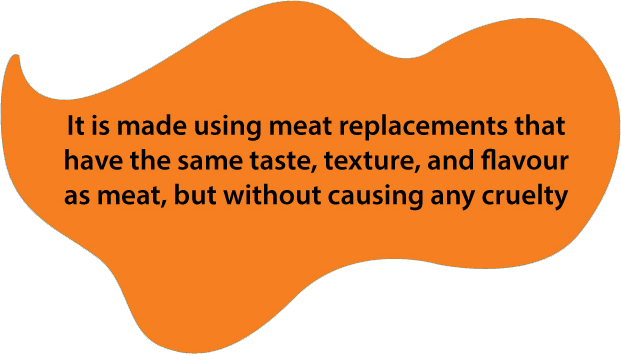
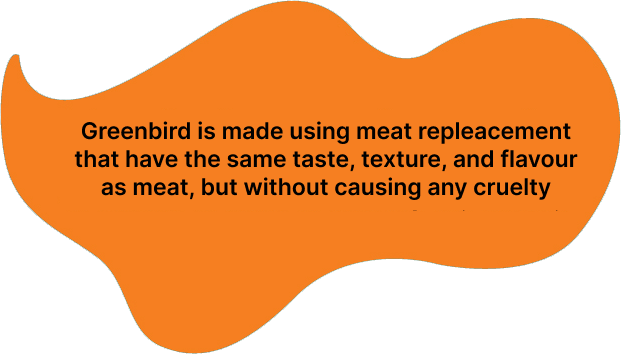
typos and question change bug fixed

Changed region(s): [[0.0918, 0.3107, 0.9485, 0.5904]]

diff --git a/src/screens/login.screen.js b/src/screens/login.screen.js
@@ -20,22 +20,11 @@ import LogoHeader from '../components/logo_header.components';
 
 const INITIAL_USER_INPUT = {
     name:"",
-    age:"",
     phone:"",
-    location:""
+    location:"",
+    email:""
 }
-const testingCreds = {
-    name:"manik",
-    age:"18-24",
-    phone:"1111111111",
-    location:"outlet location"
-}
-var age_props = [
-    {label: '18-24', value:'18-24'},
-    {label: '25-32', value: '25-32' },
-    {label:'33-45', value:'33-45'},
-    {label:'45+', value:'45-Above'}
-  ];
+
 const LoginScreen = ({navigation, route}) => {
 
     const [user,setUser] = useState(REQUEST_SUCCESS( INITIAL_USER_INPUT ));
@@ -46,6 +35,11 @@ const LoginScreen = ({navigation, route}) => {
             state.message = message;
             return {...state}
         })
+    }
+    const isMailValid = (mail) => {
+        if(!mail || mail==="") return false;
+        const validRegex = /^[a-zA-Z0-9.!#$%&'*+/=?^_`{|}~-]+@[a-zA-Z0-9-]+(?:\.[a-zA-Z0-9-]+)*$/;
+        return mail.match(validRegex);
     }
     const handleAnonymousLogin = async () => {
         if(user.status===PENDING) return;
@@ -59,16 +53,20 @@ const LoginScreen = ({navigation, route}) => {
             return
         }
         if(!user.data.location ){
-            setMessage("Please enter a valid Location")
+            setMessage("Please select a valid location")
             return
+        }
+        if(!isMailValid(user.data.email)){
+            setMessage("Please enter a valid email address")
+            return;
         }
         setMessage("");
         try{
             setUser(REQUEST_PENDING(user.data))
             await createUserDocument(user.data)
             await setFeedbackResponse(getAllResponses,user.data.phone);
-            navigation.navigate(APP_TYPE.thankYouScreen);
             setUser(REQUEST_SUCCESS(INITIAL_USER_INPUT))
+            navigation.navigate(APP_TYPE.thankYouScreen);
         }catch(e){
             if(e.code === 'auth/too-many-requests'){
                 setUser(state => REQUEST_FAILED(state.data,"Your device is blocked due to too many requests! Please try again later"))
@@ -112,7 +110,7 @@ const LoginScreen = ({navigation, route}) => {
                                             name="name"
                                             onChangeText={handleInputChange}
                                             value={user.data.name}
-                                            placeholder="Name"
+                                            placeholder="Enter Name"
                                             containerStyles={styles.input}
                                         />
                                         <C_TextInput
@@ -120,10 +118,18 @@ const LoginScreen = ({navigation, route}) => {
                                             name="phone"
                                             onChangeText={handleInputChange}
                                             value={user.data.phone}
-                                            placeholder="Mobile No."
+                                            placeholder="Enter Mobile Number"
                                             containerStyles={styles.input}
                                             type="tel"
                                             countryCode='+91'
+                                        />
+                                        <C_TextInput
+                                            label="Email Address:"
+                                            name="email"
+                                            onChangeText={handleInputChange}
+                                            value={user.data.email}
+                                            placeholder="Enter Email Address"
+                                            containerStyles={styles.input}
                                         />
                                         <DropDown
                                             label="Location:"

diff --git a/src/screens/thankyou.screen.js b/src/screens/thankyou.screen.js
@@ -23,7 +23,7 @@ const ThankyouScreen = ({navigation}) => {
     <SafeAreaView style={styles.safeAreaView}>
       <ImageBackground source={tableBg} style={styles.imagebackground}>
         <View style={styles.title}>
-          <Text style={styles.titleText}>Thank you for your participation in campaign</Text>
+          <Text style={styles.titleText}>Thanks for your valuable feedback and for joining the Greenbird initiative</Text>
         </View>
           <View style={styles.bottom}>
             <View style={styles.dualColumn}>
@@ -33,10 +33,6 @@ const ThankyouScreen = ({navigation}) => {
             <View style={styles.dualColumn}>
                 <Image source={chickenSausages} style={styles.columnElement}/>
                 <Image source={chickenTikka} style={styles.columnElement}/>
-            </View>
-            <View style={styles.couponCont}>
-              <Text style={styles.couponDesc}>Avail your coupon on your next purchase</Text>
-              <Text style={styles.coupon}>LAUNCH10</Text>
             </View>
             <Button
                 title="THANK YOU"
@@ -64,7 +60,7 @@ const styles = StyleSheet.create({
     paddingTop:GB_Utils.verticalScale(50)
   },
   titleText:{
-    fontSize:GB_Utils.scale(23),
+    fontSize:GB_Utils.scale(18),
     maxWidth:GB_Utils.scale(340),
     fontWeight:'600',
     color:'#fff',

diff --git a/src/components/questions/next-purchase.components.js b/src/components/questions/next-purchase.components.js
@@ -17,12 +17,17 @@ const NextPurchase = ({idx,changeQuestion}) => {
     setResponse(QUEST_TYPE.NEXT_PURCHASE,val);
     setResponse(QUEST_TYPE.REASON_NOT_TO_BUY,"")
   }
+  const isBtnActive = () => {
+    if(!getResponse(QUEST_TYPE.NEXT_PURCHASE)) return false;
+    if(!getResponse(QUEST_TYPE.REASON_NOT_TO_BUY) && getResponse(QUEST_TYPE.NEXT_PURCHASE)==="No") return false;
+    return true;
+  }
   return (
     <View style={styles.container}>
         <ScrollView style={styles.scroll}>
             <MCQ 
                 idx = {idx}
-                question = "Will you buy Green bird in your next purchase?"
+                question = "Will you buy Greenbird in your next purchase?"
                 all_answers = {["Yes","No"]}
                 selected_answers= {getResponse(QUEST_TYPE.NEXT_PURCHASE)}
                 handleOptionSelect = {handleOptionSelect}
@@ -53,7 +58,7 @@ const NextPurchase = ({idx,changeQuestion}) => {
                 <Button
                     title="NEXT"
                     onPress={changeQuestion}
-                    isActive={getResponse(QUEST_TYPE.NEXT_PURCHASE)==="Yes" || (getResponse(QUEST_TYPE.REASON_NOT_TO_BUY) && getResponse(QUEST_TYPE.NEXT_PURCHASE)==="No")}
+                    isActive={isBtnActive()}
                 />
         </View>
     </View>

diff --git a/src/components/questions/review.component.js b/src/components/questions/review.component.js
@@ -19,8 +19,8 @@ const WhatTasted = ({idx}) => {
         <View style={{flex:1}}>
             <MCQ 
                 idx = {idx}
-                question = {"Which Product you have tasted ?"}
-                all_answers = {["Chicken-like Nuggets", "Chicken-like Seekh Kebab", "Or Both"]}
+                question = {"Which product have you tasted ?"}
+                all_answers = {["Chicken-like Nuggets", "Chicken-like Seekh Kebab", "Both"]}
                 selected_answers = {getResponse(QUEST_TYPE.WHAT_TASTED)}
                 handleOptionSelect = {handleMCQOptionSelect}
             />
@@ -46,7 +46,7 @@ const ReviewQuestion = ({idx, changeQuestion}) => {
             break;
         };
         case 1: {
-            if(getResponse(QUEST_TYPE.WHAT_TASTED)==='Or Both') setStage(2);
+            if(getResponse(QUEST_TYPE.WHAT_TASTED)==='Both') setStage(2);
             else changeQuestion();
             break;
         }

diff --git a/src/components/record-video.component.js b/src/components/record-video.component.js
@@ -33,7 +33,6 @@ const RecordVideo = ({setPath}) => {
       setIsRecording(true);
       camera.current.startRecording({
         onRecordingFinished: async (video) =>{
-             console.log(video.path)
              setPath(video.path);
              setIsRecording(false)
         },
@@ -90,7 +89,6 @@ const RecordVideo = ({setPath}) => {
       />
     </View>
   )
-  console.log(isActive)
   const device = isFront? devices.front: devices.back
   if(device==null) return <SpinnerWrapper isActive={true} overlayStyle={{backgroundColor:'#000',borderRadius:10}}></SpinnerWrapper>
   return (

diff --git a/src/components/questions/tried-meat.component.js b/src/components/questions/tried-meat.component.js
@@ -41,8 +41,11 @@ const TriedMeat = ({idx,changeQuestion}) => {
                 value = { getResponse(QUEST_TYPE.TRIED_MEAT) }
                 data = {[
                     {
-                        label:"Evo Foods",
-                        value:"Evo Foods"
+                        label:"Saka-Harry",
+                        value:"Saka-Harry"
+                    },{
+                        label:"GoodDot",
+                        value:"GoodDot"
                     },{
                         label:"Mister Veg",
                         value:"Mister Veg",

diff --git a/src/components/questions/video-feedback.components.js b/src/components/questions/video-feedback.components.js
@@ -133,7 +133,6 @@ const VideoFeedback = ({idx,changeQuestion}) => {
     //         break;
     //     }
     //     case 1:{
-    //         console.log(getResponse(QUEST_TYPE.VIDEO_FEEDBACK))
     //         if(!getResponse(QUEST_TYPE.VIDEO_FEEDBACK)) return;
     //         changeQuestion();
     //     }

diff --git a/src/utils/database.utils.js b/src/utils/database.utils.js
@@ -13,6 +13,7 @@ export const createUserDocument = async (user={}) => {
       phoneNumber:user.phone,
       createdAt,
       name:user.name,
+      email:user.email,
       location: user.location
     }
     const usersRef = firestore().collection('apps').doc(appIdInFirestore).collection('Users');

diff --git a/src/components/access-gallery.components.js b/src/components/access-gallery.components.js
@@ -35,7 +35,6 @@ const AccessGallary = ({path,handleUploaded, handleRecordAgain}) => {
         Math.round(progress * 1000)
       )
     })
-    // console.log("compressed",result);
     
     setIsUploading(true);
     setTransfered(0);

diff --git a/src/context/quiz.context.js b/src/context/quiz.context.js
@@ -27,7 +27,6 @@ export const QuizProvider = ({ children }) => {
             }
         })
         // return state;
-        console.log(state)
         return true;
    }
    const flushResponse = () => {
